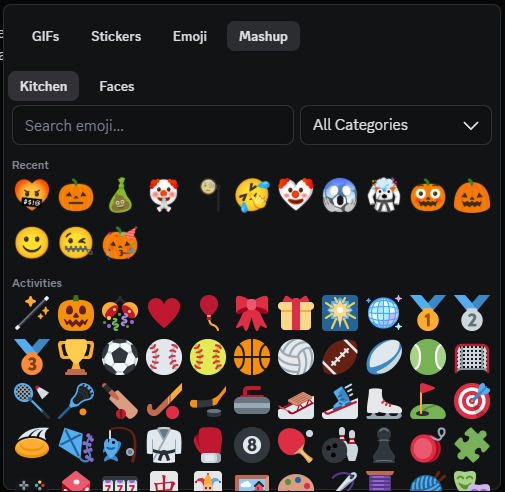
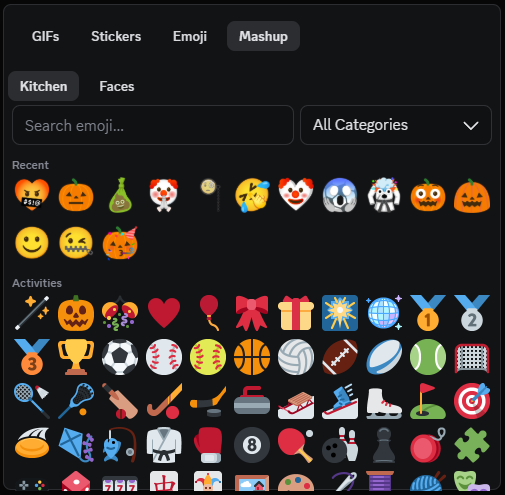
docs: refresh the screenshots and record the second smoke run
Replace the picker screenshot with a current capture, and add a Faces
screenshot to the section that describes that engine. The readme
described two engines but pictured only one.

Split the smoke record into the two parts it actually covers: the send
paths against df7a063, and the picker text against 4aae601.

diff --git a/docs/DEVELOPMENT.md b/docs/DEVELOPMENT.md
@@ -164,21 +164,22 @@ only surface, so that failure is the warning that matters.
 Step 5 stays manual. Whether a mashup arrives in a channel needs a client that is
 signed in, and no gate here does that.
 
-The last run was on 2026-07-27, against a client built from `df7a063`. The
-installed clone was fast-forwarded to that commit and its tree confirmed clean,
-Vencord was rebuilt from it, and the rebuilt `dist/renderer.js` was checked to
-contain the plugin before the run. The maintainer then confirmed the Mashup tab
-opens, the Kitchen and Faces grids populate, and both engines send: a Kitchen
-mashup embeds from its URL, and a Faces mashup uploads as an attachment. A new send
-lands at the front of the Recent row, and 😚 appears among the Faces mouths, which
-covers the two picker fixes in 0.1.1.
+The last run was on 2026-07-27, in two parts.
+
+The send paths were confirmed against a client built from `df7a063`. The installed
+clone was fast-forwarded to that commit and its tree confirmed clean, and Vencord
+was rebuilt from it. The rebuilt `dist/renderer.js` was checked to contain the
+plugin before the run. The maintainer confirmed that the Mashup tab opens and both
+grids populate. A Kitchen mashup embeds from its URL, and a Faces mashup uploads as
+an attachment. A new send lands at the front of the Recent row, and 😚 appears among
+the Faces mouths. Those last two cover the picker fixes in 0.1.1.
+
+The picker text was then confirmed against a client rebuilt from `4aae601`. That
+commit changed five strings and nothing else. The Faces hint, the two count headers
+and the blocked-preview notice all render their current wording.
 
 That is the maintainer's word, not a transcript of each click. Read it as "the
 picker works from this commit", not as proof of any single branch.
-
-That run predates the current HEAD. The only source change since `df7a063` is the
-wording of five strings in the picker, so the record covers the behaviour but not
-the exact bundle. Confirm the Faces hint and the count header at the next rebuild.
 
 The run did not cover, and this page does not claim: migrating recents from the
 pre-rename storage key, Faces staying usable when the index fails to load, the

diff --git a/README.md b/README.md
@@ -47,6 +47,8 @@ different face. This engine covers faces only, because a coffee cup has no eyes 
 lend. It reaches pairs Google never drew, which is what the original bot made
 before Emoji Kitchen existed.
 
+![The Faces grid, built from cut-up Twemoji parts](./docs/images/emoji-mashup-faces.png)
+
 ## Installation
 
 Follow the official guide to
